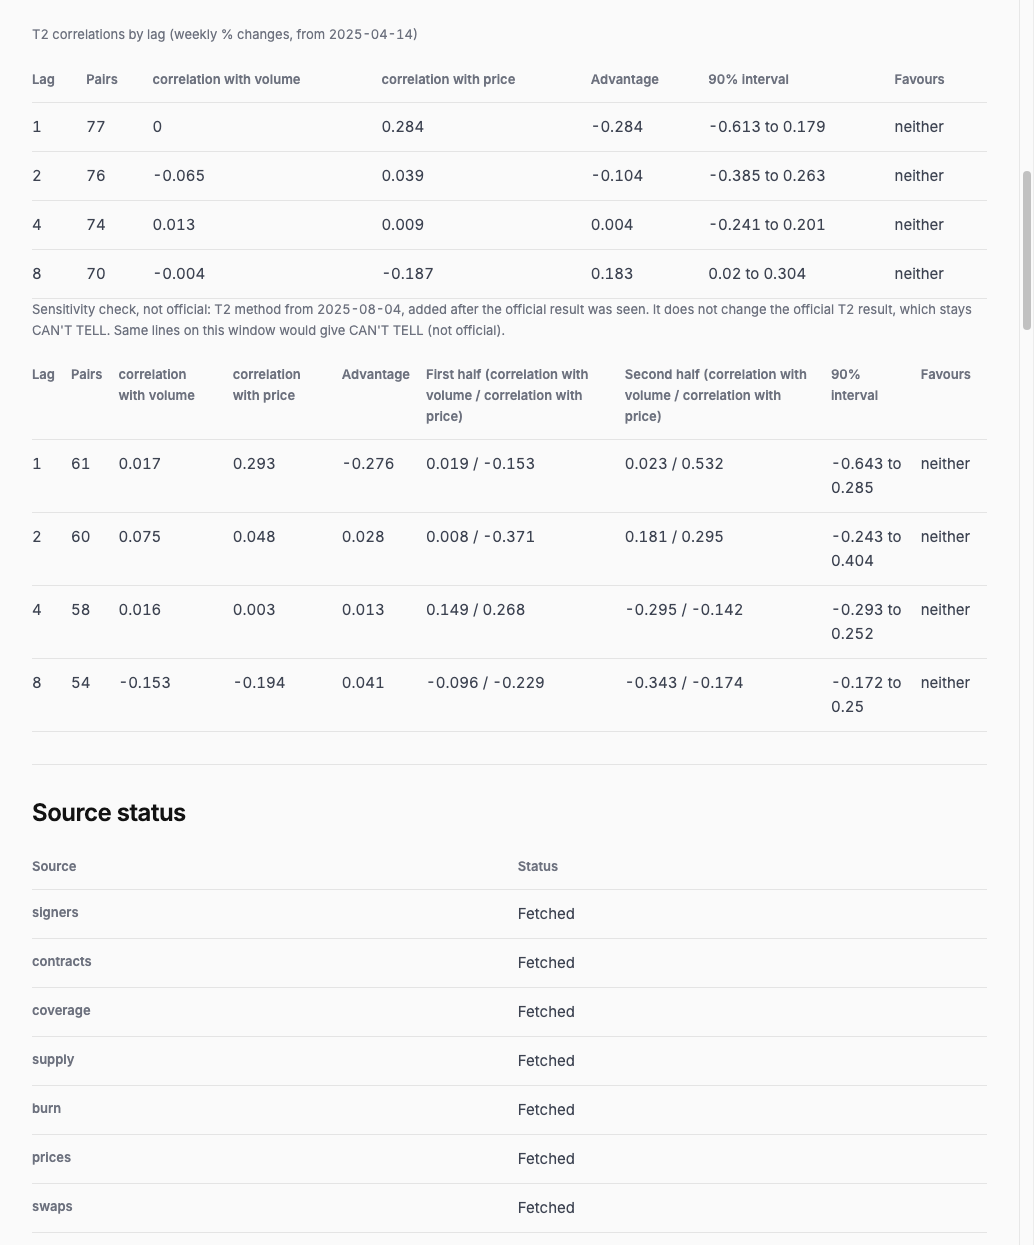
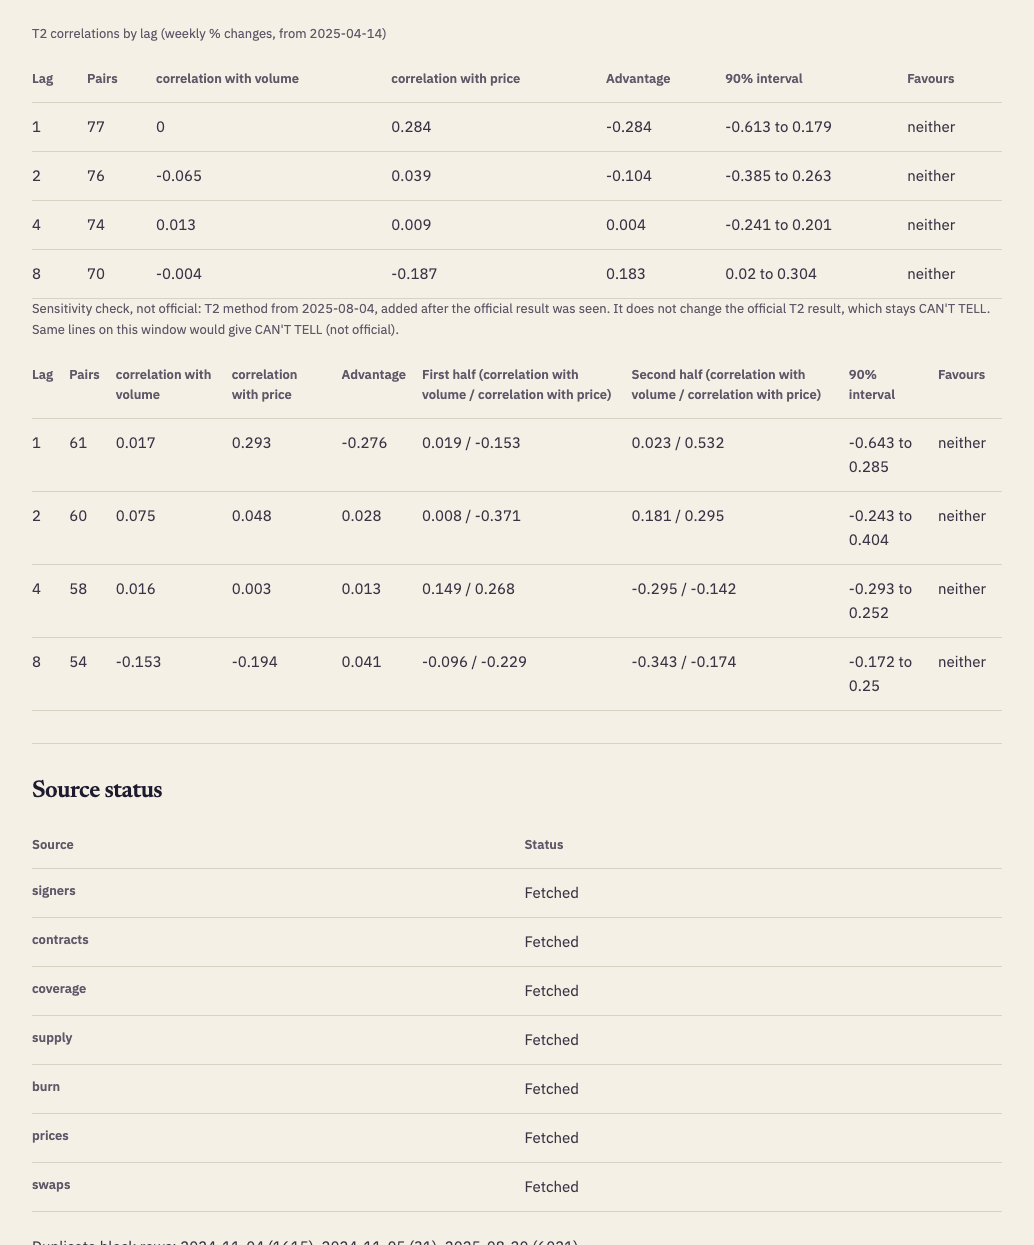
Retake dashboard and thesis screenshots 02-07 in the current look
Each is captured from the current build with headless Chrome at
1034x1245, scrolled to the same section as the old screenshot.

diff --git a/VALIDATION.md b/VALIDATION.md
@@ -78,7 +78,7 @@ Run over all 7,513 saved pages after `complete.json` was written (2026-11-09T12:
 - Axe-core 4.12.1 (`wcag2a,wcag2aa`) reports zero violations on the responsive dashboard harness and thesis page. An initial wide-table keyboard-focus finding was fixed with focusable table wrappers. Offscreen table cells remain marked incomplete for automated contrast review; computed foreground/background checks give a minimum 4.63:1 for both dashboard result tables and thesis tables, above 4.5:1.
 - The two result tables in the rules section have no height limit; at every harness width their scroll height equals their visible height (the sensitivity table is 412 px at 1280 px), so no row hides behind an inner scrollbar. The long values tables in the expandable sections keep the 400 px limit.
 - The real **See the evidence** link sets `#signers` and scrolls the first chart to y=47.75 after smooth scrolling settles.
-- Seven real screenshots in `docs/screens/` were captured from the final rebuilt pages at the browser pane's native size, not from the layout harness. They are 79,761–191,614 bytes each, below 400 KB, and have one-sentence captions in README. After the result-table and first-screen fixes, 01–06 were retaken from the final build; 07 was recaptured and was byte-identical, so it was kept. On 2026-11-14, 01 was retaken after the heading rewrite and the Beforehand look, with headless Chrome at 1034×1245 and device scale 1; 02–07 still show the earlier look.
+- Seven real screenshots in `docs/screens/` were captured from the final rebuilt pages at the browser pane's native size, not from the layout harness. They are 89,970–190,822 bytes each, below 400 KB, and have one-sentence captions in README. After the result-table and first-screen fixes, 01–06 were retaken from the final build; 07 was recaptured and was byte-identical, so it was kept. On 2026-11-14, all seven were retaken after the heading rewrite and the Beforehand look, with headless Chrome at 1034×1245 and device scale 1, each scrolled to the same section as before.
 - During validation, the artifact-equality CLI test caught HTML generated before the table-focus change. Rebuilding the generated output resolved the mismatch; the final full suite passes all 45 tests.
 
 ## Clean-clone rebuild
